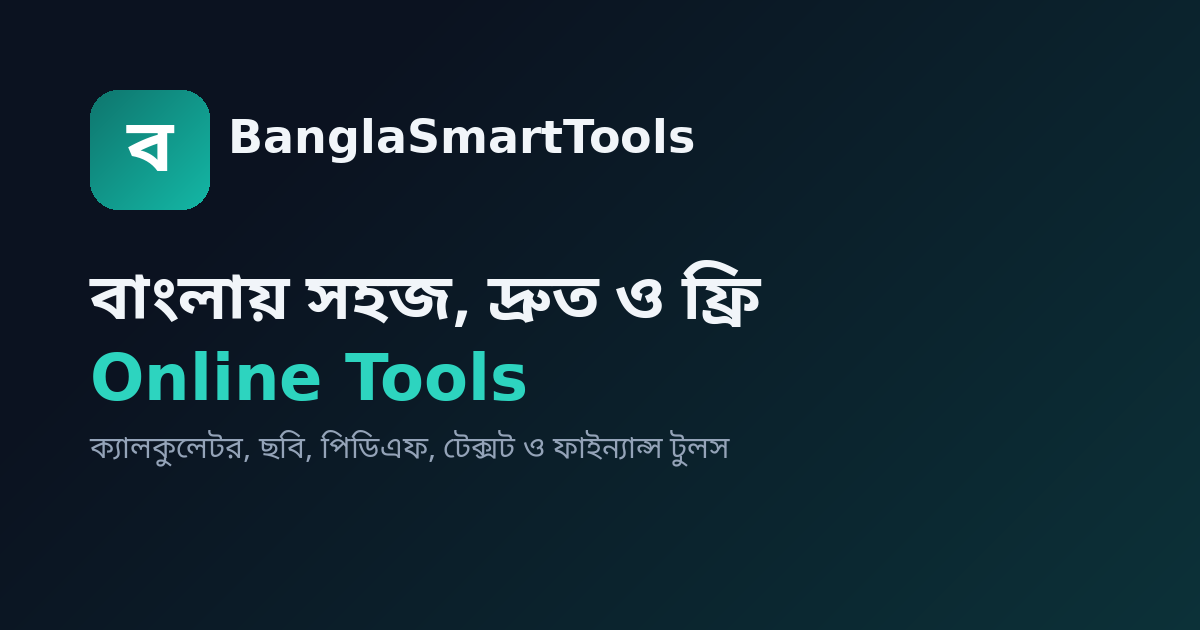
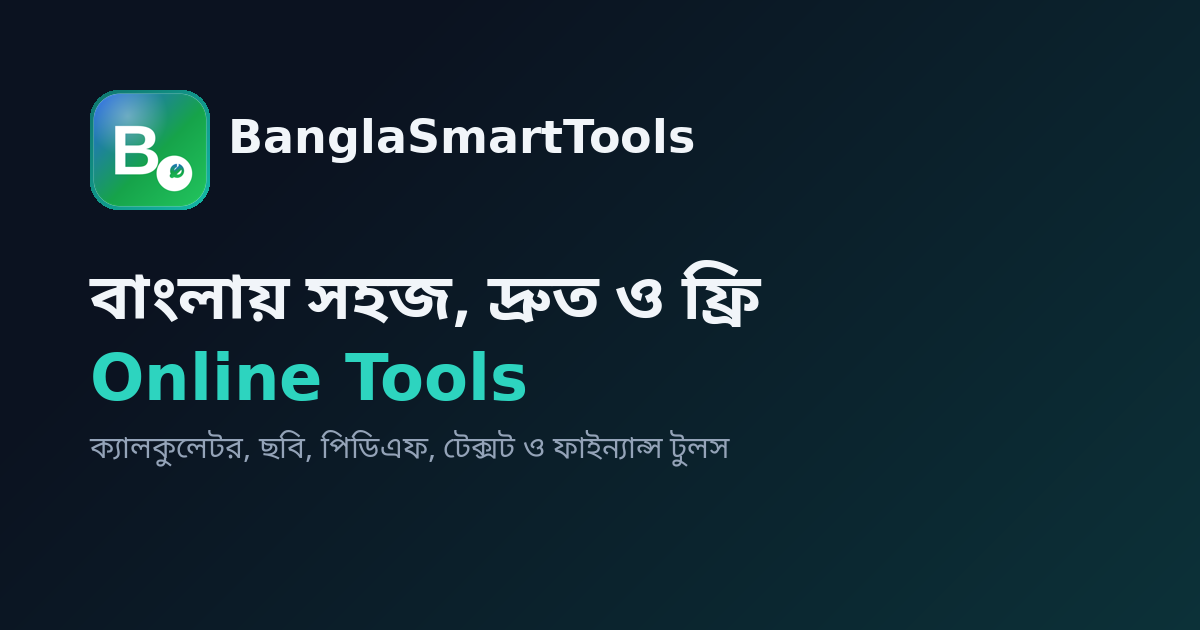
Add files via upload

Changed region(s): [[0.0617, 0.1508, 0.185, 0.3317]]

diff --git a/style.css b/style.css
@@ -1,7 +1,7 @@
 :root{--bg:#f6f8fb;--card:#fff;--text:#172033;--muted:#64748b;--primary:#0f766e;--primary2:#14b8a6;--border:#e2e8f0;--shadow:0 10px 30px rgba(15,23,42,.07)}
 [data-theme=dark]{--bg:#0b1220;--card:#111827;--text:#f1f5f9;--muted:#94a3b8;--border:#263244;--shadow:0 10px 30px rgba(0,0,0,.25)}
 *{box-sizing:border-box}html{scroll-behavior:smooth}body{margin:0;background:var(--bg);color:var(--text);font-family:"Hind Siliguri",Inter,sans-serif;line-height:1.65}.container{width:min(1120px,92%);margin:auto}.header{position:sticky;top:0;z-index:20;background:color-mix(in srgb,var(--card) 92%,transparent);backdrop-filter:blur(12px);border-bottom:1px solid var(--border)}.nav{min-height:68px;display:flex;align-items:center;gap:24px}.brand{font:700 22px Inter,sans-serif;color:var(--text);text-decoration:none;white-space:nowrap;display:flex;align-items:center;gap:9px}.brand span{color:var(--primary)}.brand-mark{border-radius:8px;display:block}.footer-brand{margin-bottom:8px}nav{display:flex;gap:18px;flex:1}nav a,.footer-grid a{color:var(--text);text-decoration:none}nav a:hover,.footer-grid a:hover{color:var(--primary)}.nav-actions{display:flex;gap:8px}.small,.menu,.mobile-search,.btn{border:1px solid var(--border);background:var(--card);color:var(--text);border-radius:10px;padding:9px 12px;cursor:pointer}.menu{display:none}.hero{padding:64px 0 35px;text-align:center}.hero h1{font-size:clamp(32px,6vw,58px);line-height:1.1;margin:0 0 14px}.hero p{color:var(--muted);font-size:19px}.search{display:flex;max-width:700px;margin:25px auto;gap:10px}.input,.select,.textarea{width:100%;padding:12px 14px;border:1px solid var(--border);border-radius:10px;background:var(--card);color:var(--text);font:inherit}.textarea{min-height:150px;resize:vertical}.btn{background:var(--primary);color:#fff;border-color:var(--primary);font-weight:600}.btn.alt{background:transparent;color:var(--text)}.section{padding:30px 0 55px}.section h2{font-size:30px;margin:0 0 20px}.grid{display:grid;grid-template-columns:repeat(3,1fr);gap:18px}.card{position:relative;background:var(--card);border:1px solid var(--border);border-radius:16px;padding:20px;box-shadow:var(--shadow)}.tool-card{display:flex;flex-direction:column;min-height:175px}.tool-card h3{margin:5px 0;font-size:20px}.tool-card p{color:var(--muted);margin:0 0 15px}.tool-card .btn{margin-top:auto;text-align:center;text-decoration:none}.chips{display:flex;flex-wrap:wrap;gap:8px}.chip{padding:7px 11px;border:1px solid var(--border);border-radius:999px;color:var(--muted);text-decoration:none}.chip.active{background:var(--primary);border-color:var(--primary);color:#fff}.tool-layout{max-width:760px;margin:45px auto}.form-grid{display:grid;grid-template-columns:repeat(2,1fr);gap:14px}.field label{display:block;font-weight:600;margin-bottom:5px}.result{margin-top:18px;padding:18px;border-radius:12px;background:color-mix(in srgb,var(--primary) 9%,var(--card));border:1px solid var(--border)}.actions{display:flex;gap:8px;flex-wrap:wrap;margin-top:12px}.article{max-width:820px;margin:45px auto}.article h1{font-size:38px}.article p,.article li{font-size:17px}.legal{max-width:850px;margin:45px auto}.footer-grid{display:grid;grid-template-columns:1.4fr 1fr 1fr 1fr;gap:25px;padding:45px 0}.footer-grid h4{margin-top:0}.footer-grid p{line-height:2}.footer-grid h3,.footer-grid h4{margin-top:0}.copyright{text-align:center;border-top:1px solid var(--border);padding:18px;color:var(--muted)}footer{border-top:1px solid var(--border);margin-top:45px}.toast{position:fixed;right:20px;bottom:20px;background:#111827;color:white;padding:11px 15px;border-radius:10px;opacity:0;transform:translateY(10px);transition:.25s;z-index:99}.toast.show{opacity:1;transform:none}.drop{border:2px dashed var(--border);padding:30px;text-align:center;border-radius:14px}.blog-meta{color:var(--muted);font-size:14px}
-.tool-icon{width:44px;height:44px;border-radius:12px;background:color-mix(in srgb,var(--primary) 12%,var(--card));color:var(--primary);display:flex;align-items:center;justify-content:center;flex-shrink:0}.tool-icon svg{width:24px;height:24px}.tool-card{gap:2px;position:relative}.tool-card .tool-icon{margin-bottom:6px}
+.tool-icon{width:44px;height:44px;border-radius:12px;display:block;object-fit:cover;flex-shrink:0;box-shadow:0 4px 10px -4px rgba(0,0,0,.35)}.tool-card{gap:2px;position:relative}.tool-card .tool-icon{margin-bottom:6px}
 .fav-btn{position:absolute;top:14px;right:14px;background:none;border:none;font-size:20px;line-height:1;cursor:pointer;color:var(--muted);padding:2px;z-index:2}.fav-btn.active{color:#f5b400}
 .mobile-search{display:none}
 @media(max-width:850px){.mobile-search{display:block;margin-left:auto}}
@@ -9,7 +9,7 @@
 .spinner{width:18px;height:18px;border:2.5px solid color-mix(in srgb,var(--primary) 25%,transparent);border-top-color:var(--primary);border-radius:50%;display:inline-block;animation:spin .7s linear infinite;vertical-align:middle;margin-right:8px}
 @keyframes spin{to{transform:rotate(360deg)}}
 .loading-row{display:flex;align-items:center;color:var(--muted)}
-.related{margin-top:38px;padding-top:28px;border-top:1px solid var(--border)}.related h3{font-size:17px;margin:0 0 14px}.related-list{display:flex;flex-direction:column;gap:8px}.related-list a{display:flex;align-items:center;gap:10px;padding:10px 12px;border:1px solid var(--border);border-radius:10px;text-decoration:none;color:var(--text);background:var(--card)}.related-list a:hover{border-color:var(--primary)}.related-list .tool-icon{width:32px;height:32px;border-radius:8px}.related-list .tool-icon svg{width:17px;height:17px}
+.related{margin-top:38px;padding-top:28px;border-top:1px solid var(--border)}.related h3{font-size:17px;margin:0 0 14px}.related-list{display:flex;flex-direction:column;gap:8px}.related-list a{display:flex;align-items:center;gap:10px;padding:10px 12px;border:1px solid var(--border);border-radius:10px;text-decoration:none;color:var(--text);background:var(--card)}.related-list a:hover{border-color:var(--primary)}.related-list .tool-icon,.related-list .related-icon{width:32px;height:32px;border-radius:9px}
 .share-row{margin-top:16px}.share-btn{display:inline-flex;align-items:center;gap:7px}.share-btn svg{width:16px;height:16px}
 .contact-form{display:flex;flex-direction:column;gap:14px;max-width:480px;margin-top:20px}.contact-form label{font-weight:600;font-size:14px}.hp-field{position:absolute;left:-9999px;opacity:0}
 .badge-row{display:flex;flex-wrap:wrap;gap:8px;margin:14px 0}.badge{font-size:13px;padding:5px 10px;border-radius:999px;border:1px solid var(--border);color:var(--muted)}

diff --git a/script.js b/script.js
@@ -716,11 +716,12 @@ function toggleFavorite(id){
   localStorage.bst_favorites=JSON.stringify(state.favorites);
   document.querySelectorAll(`.fav-btn[data-id="${id}"]`).forEach(b=>b.classList.toggle("active",state.favorites.includes(id)));
 }
-function card(t){const fav=state.favorites.includes(t[0]);return `<div class="card tool-card"><button class="fav-btn${fav?" active":""}" data-id="${t[0]}" aria-label="Favorite" onclick="event.preventDefault();toggleFavorite('${t[0]}')">${fav?"★":"☆"}</button><div class="tool-icon">${toolIcons[t[0]]||genericIcon}</div><h3>${esc(t[1])}</h3><p>${esc(t[2])}</p><a class="btn" href="#/${t[0]}">ব্যবহার করুন →</a></div>`}
+function toolIconTag(id,cls){return `<img class="${cls}" src="icons/${id}.png" alt="" width="44" height="44" loading="lazy">`}
+function card(t){const fav=state.favorites.includes(t[0]);return `<div class="card tool-card"><button class="fav-btn${fav?" active":""}" data-id="${t[0]}" aria-label="Favorite" onclick="event.preventDefault();toggleFavorite('${t[0]}')">${fav?"★":"☆"}</button>${toolIconTag(t[0],"tool-icon")}<h3>${esc(t[1])}</h3><p>${esc(t[2])}</p><a class="btn" href="#/${t[0]}">ব্যবহার করুন →</a></div>`}
 function relatedTools(currentId,category,n){
   const list=tools.filter(t=>t[0]!==currentId && t[3]===category).slice(0,n);
   if(!list.length)return "";
-  return `<div class="related"><h3>${state.lang==="bn"?"সম্পর্কিত Tools":"Related tools"}</h3><div class="related-list">${list.map(t=>`<a href="#/${t[0]}"><span class="tool-icon">${toolIcons[t[0]]||genericIcon}</span><span><b>${esc(t[1])}</b><br><small style="color:var(--muted)">${esc(t[2])}</small></span></a>`).join("")}</div></div>`;
+  return `<div class="related"><h3>${state.lang==="bn"?"সম্পর্কিত Tools":"Related tools"}</h3><div class="related-list">${list.map(t=>`<a href="#/${t[0]}">${toolIconTag(t[0],"tool-icon related-icon")}<span><b>${esc(t[1])}</b><br><small style="color:var(--muted)">${esc(t[2])}</small></span></a>`).join("")}</div></div>`;
 }
 
 /* ---------- Pages ---------- */
